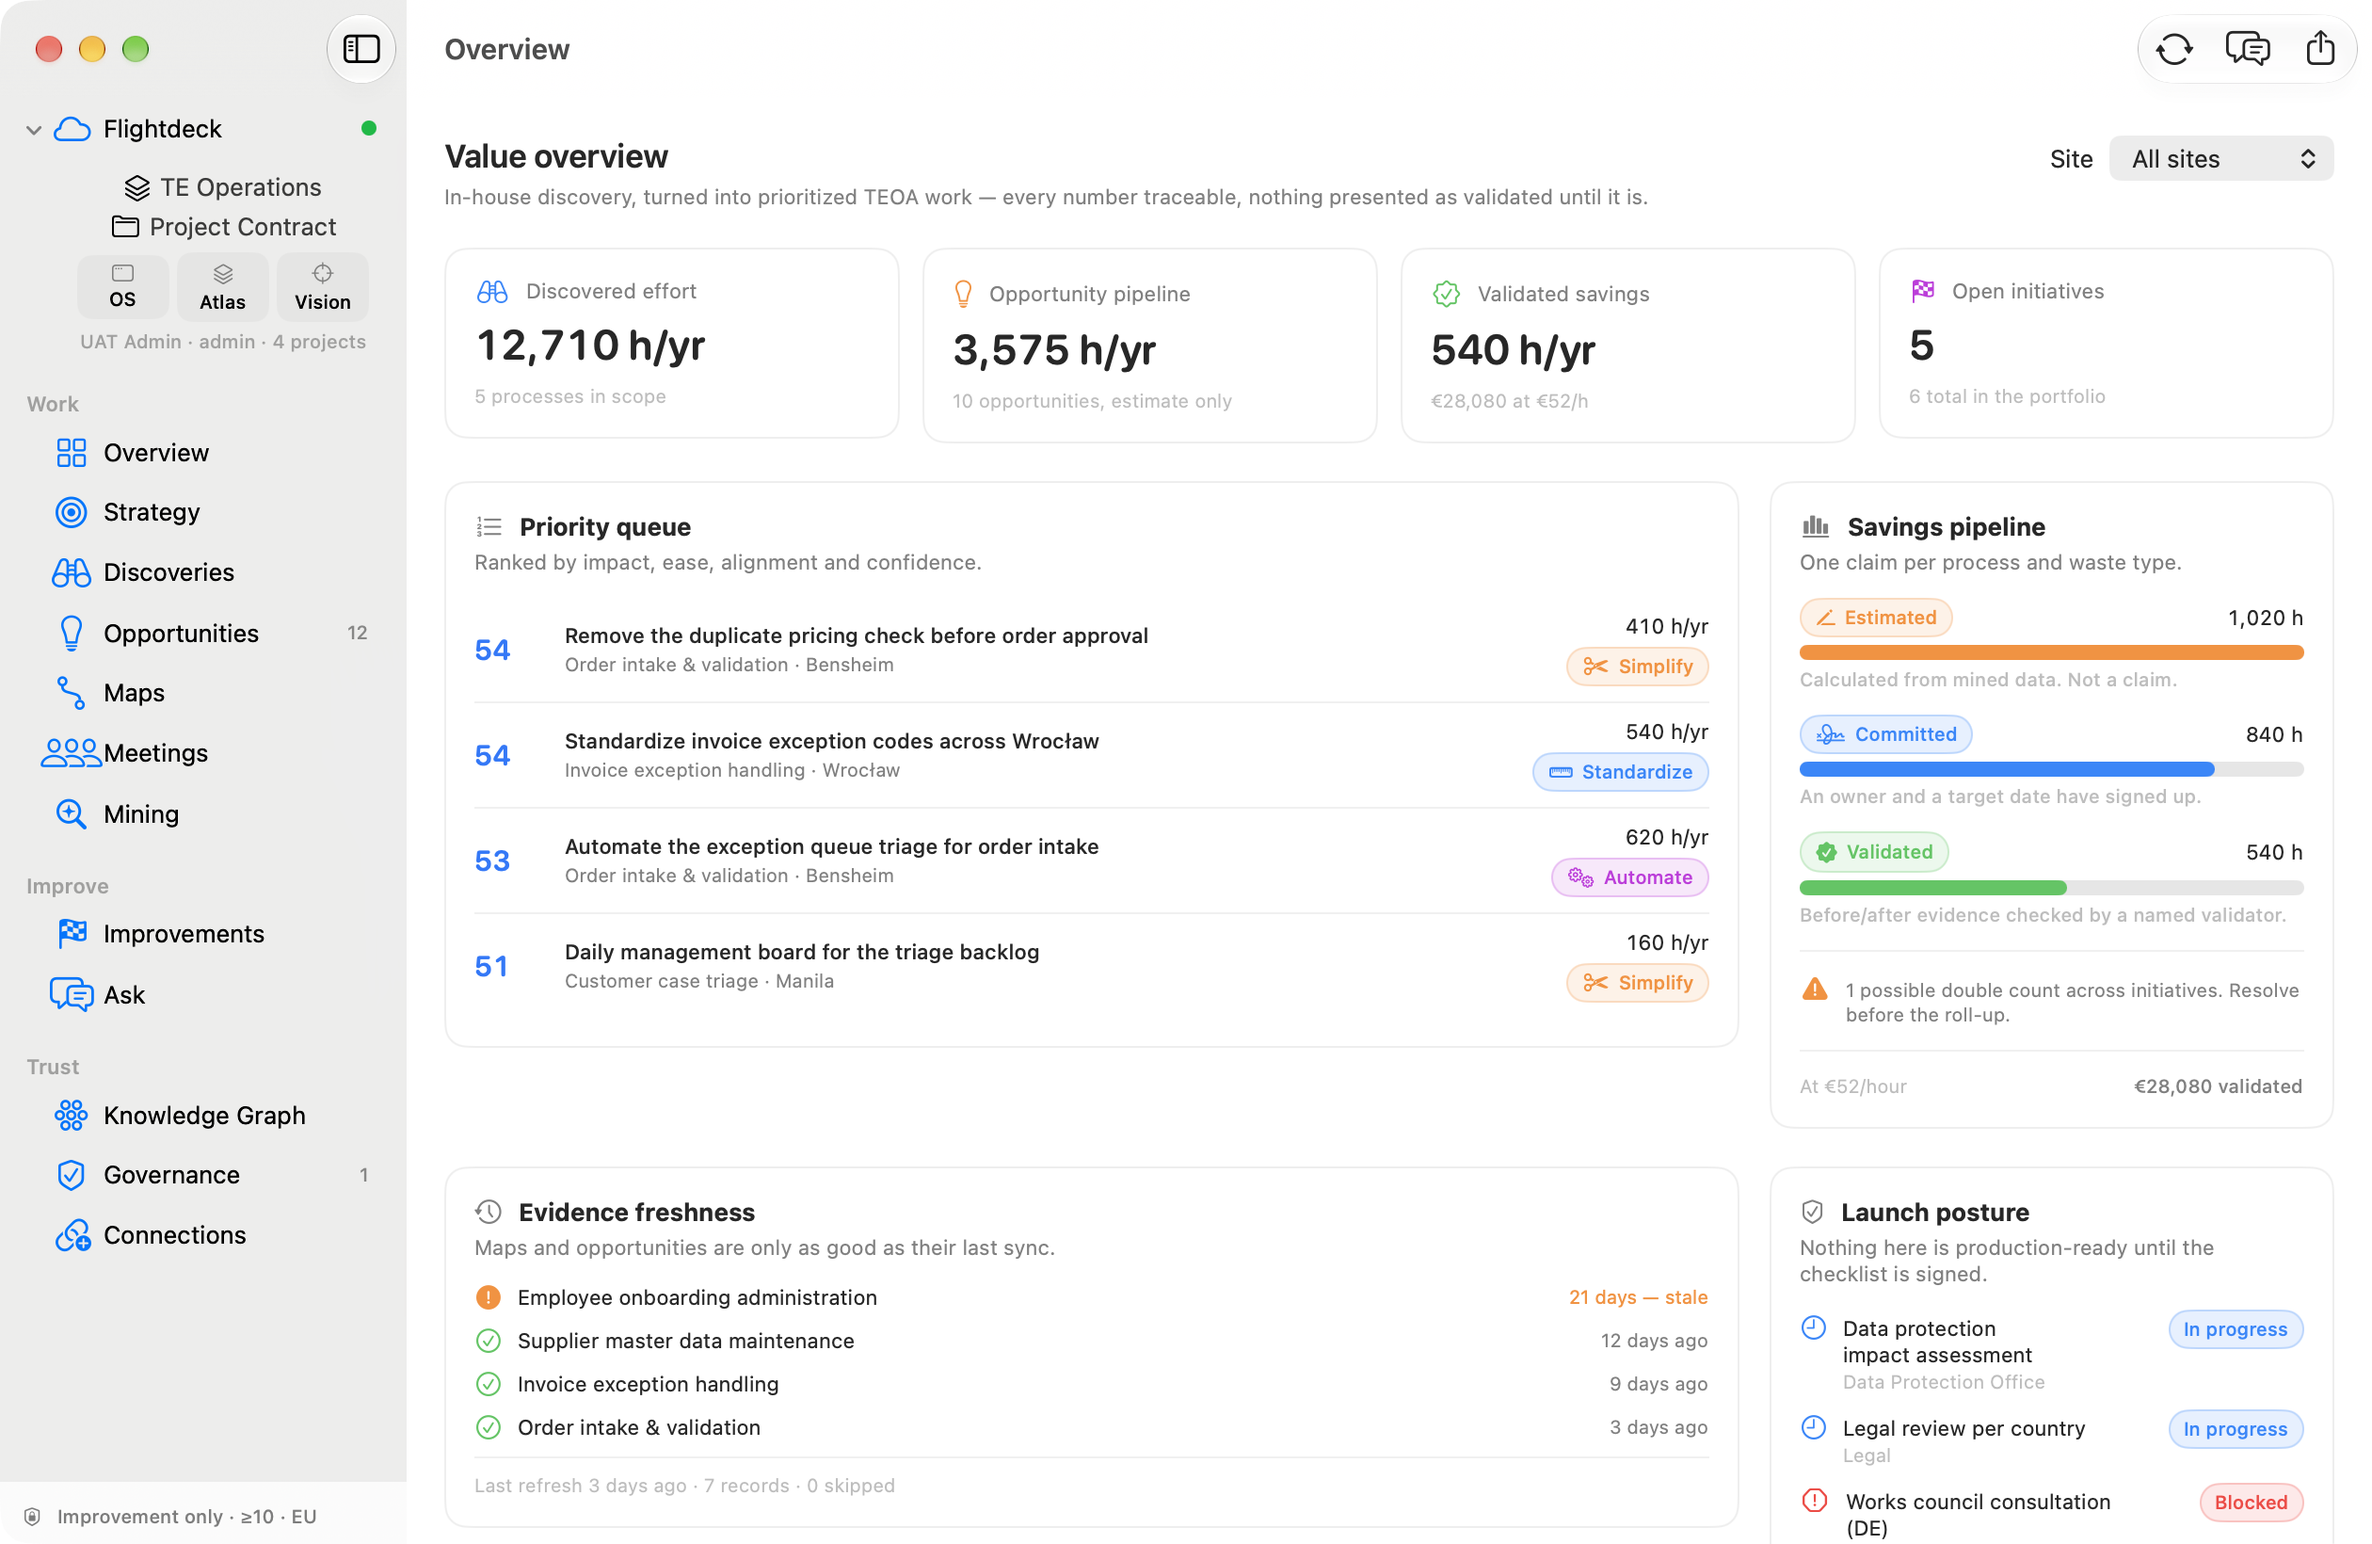
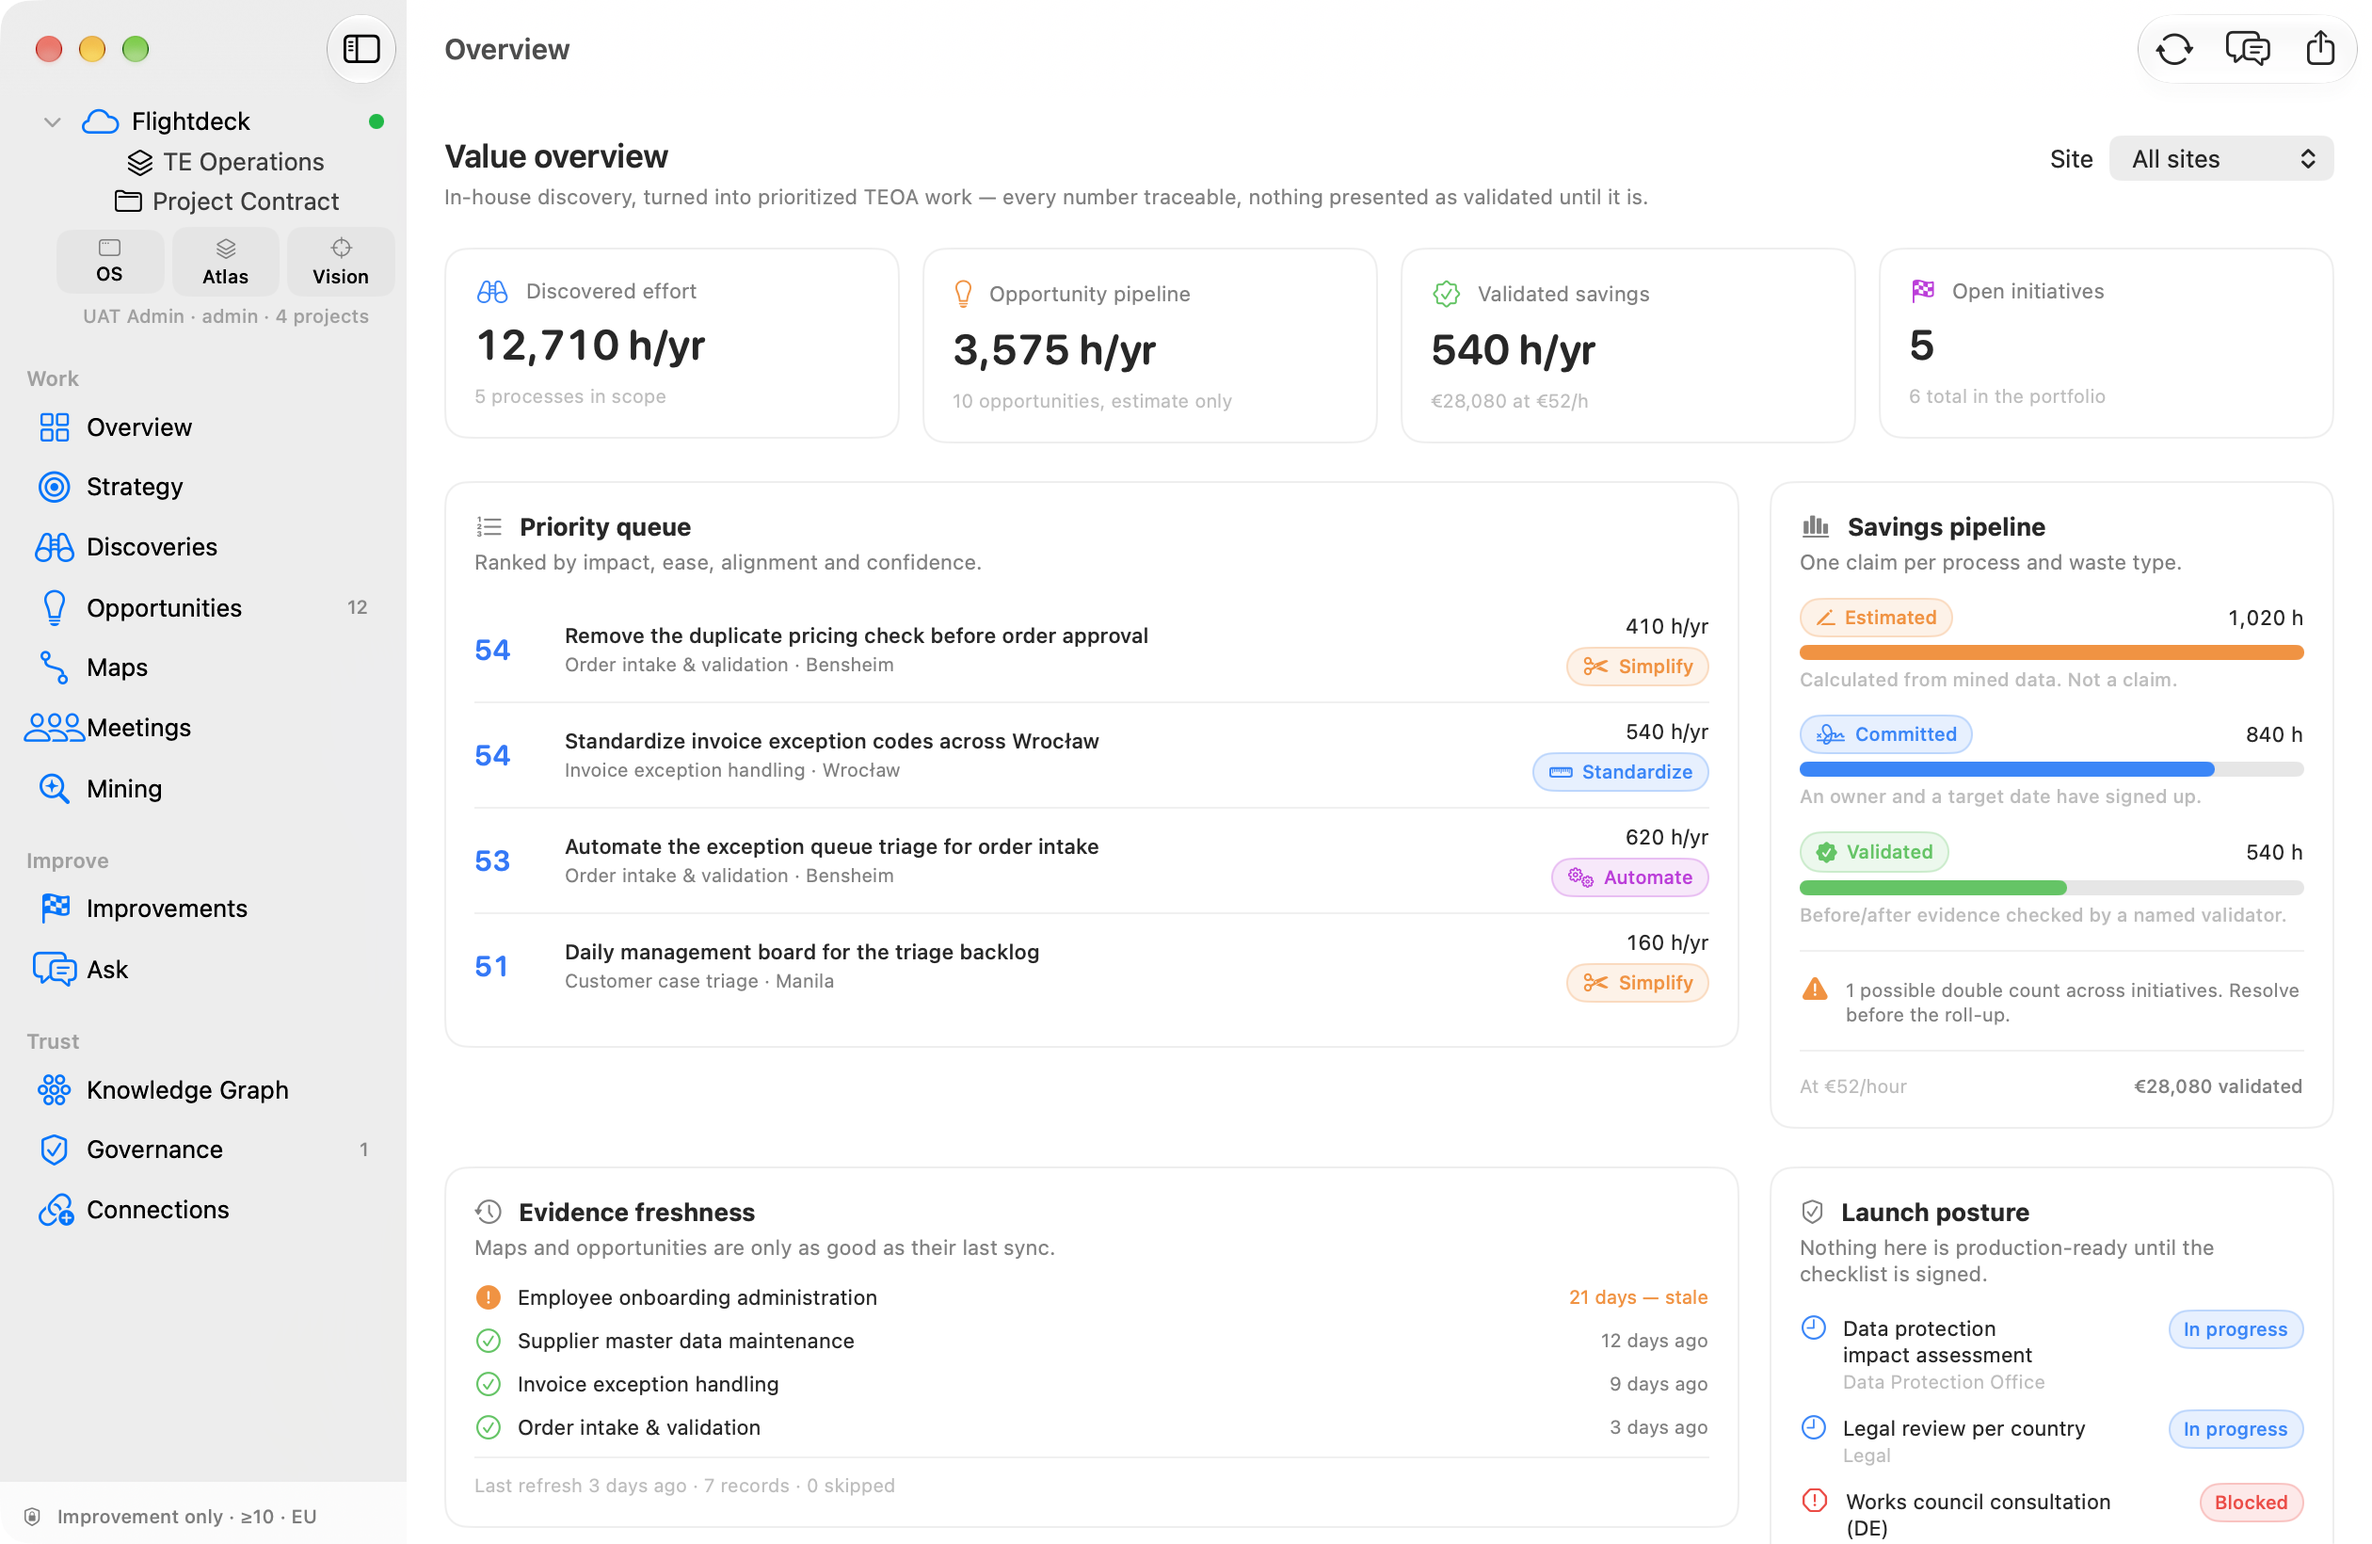
Centre the Flightdeck submenu within the sidebar row

Changed region(s): [[0.0, 0.2488, 0.1238, 0.653], [0.031, 0.0622, 0.1548, 0.2488], [0.0, 0.6841, 0.1238, 0.8085]]

diff --git a/macos/ProcessLink/Sources/ProcessLink/UI/FlightdeckSidebar.swift b/macos/ProcessLink/Sources/ProcessLink/UI/FlightdeckSidebar.swift
@@ -10,45 +10,59 @@ struct FlightdeckSidebar: View {
     @AppStorage("sidebar.flightdeck.expanded") private var expanded = true
 
     var body: some View {
-        DisclosureGroup(isExpanded: $expanded) {
-            VStack(spacing: Space.xs) {
-                if flightdeck.isSignedIn {
-                    workspaceMenu
-                    projectMenu
-                    links
-                    if let health = flightdeck.health["os"] {
-                        Text(health.detail)
-                            .font(.caption2)
-                            .foregroundStyle(.tertiary)
-                            .lineLimit(1)
-                            .multilineTextAlignment(.center)
-                            .frame(maxWidth: .infinity, alignment: .center)
-                            .help(health.detail)
-                    }
-                } else {
-                    Button {
-                        model.page = .connections
-                    } label: {
-                        Label("Connect Flightdeck", systemImage: "link.badge.plus")
-                            .font(.body)
-                            .frame(maxWidth: .infinity, alignment: .center)
-                    }
-                    .buttonStyle(.plain)
+        VStack(spacing: Space.xs) {
+            Button {
+                expanded.toggle()
+            } label: {
+                HStack(spacing: Space.sm) {
+                    Image(systemName: "chevron.right")
+                        .font(.system(size: 10, weight: .semibold))
+                        .foregroundStyle(.tertiary)
+                        .rotationEffect(.degrees(expanded ? 90 : 0))
+                    Label("Flightdeck", systemImage: "cloud")
+                        .font(.body.weight(.medium))
+                    Spacer()
+                    Circle()
+                        .fill(statusTint)
+                        .frame(width: 8, height: 8)
+                        .help(statusLabel)
                 }
+                .contentShape(Rectangle())
             }
-            .padding(.horizontal, Space.xs)
-            .padding(.top, 2)
-        } label: {
-            HStack(spacing: Space.sm) {
-                Label("Flightdeck", systemImage: "cloud")
-                    .font(.body.weight(.medium))
-                Spacer()
-                Circle()
-                    .fill(statusTint)
-                    .frame(width: 8, height: 8)
-                    .help(statusLabel)
+            .buttonStyle(.plain)
+
+            if expanded {
+                VStack(spacing: Space.xs) {
+                    if flightdeck.isSignedIn {
+                        workspaceMenu
+                        projectMenu
+                        links
+                        if let health = flightdeck.health["os"] {
+                            Text(health.detail)
+                                .font(.caption2)
+                                .foregroundStyle(.tertiary)
+                                .lineLimit(1)
+                                .multilineTextAlignment(.center)
+                                .frame(maxWidth: .infinity, alignment: .center)
+                                .help(health.detail)
+                        }
+                    } else {
+                        Button {
+                            model.page = .connections
+                        } label: {
+                            Label("Connect Flightdeck", systemImage: "link.badge.plus")
+                                .font(.body)
+                                .frame(maxWidth: .infinity, alignment: .center)
+                        }
+                        .buttonStyle(.plain)
+                    }
+                }
+                .frame(minWidth: 180, maxWidth: .infinity, alignment: .center)
+                .padding(.leading, Space.md)
             }
         }
+        .frame(minWidth: 180, maxWidth: .infinity, alignment: .center)
+        .padding(.horizontal, Space.sm)
         .task {
             // A self-test must never block on a Keychain prompt from an
             // unsigned/ad-hoc build. It tests the data functions, not the
@@ -129,7 +143,8 @@ struct FlightdeckSidebar: View {
     // MARK: Links
 
     private var links: some View {
-        HStack(spacing: Space.xs) {
+        LazyVGrid(columns: Array(repeating: GridItem(.flexible(), spacing: Space.xs), count: 3),
+                  spacing: Space.xs) {
             link("OS", title: "Flightdeck OS", symbol: "macwindow", url: flightdeck.baseURLString)
             link("Atlas", title: "Atlas", symbol: "square.stack.3d.up", url: flightdeck.atlasURLString)
             link("Vision", title: "Vision", symbol: "scope", url: visionURL)
@@ -162,6 +177,7 @@ struct FlightdeckSidebar: View {
             .contentShape(Rectangle())
         }
         .buttonStyle(.plain)
+        .frame(maxWidth: .infinity)
         .help("Open \(title)")
         .accessibilityLabel("Open \(title)")
     }

diff --git a/docs/RELEASING.md b/docs/RELEASING.md
@@ -11,7 +11,7 @@ A GitHub Release carries both desktop installers:
 
 The workflow is [`.github/workflows/release.yml`](../.github/workflows/release.yml).
 
-The current release, [v0.1.11](https://github.com/pallefar/ProcessLink/releases/tag/v0.1.11),
+The current release, [v0.1.12](https://github.com/pallefar/ProcessLink/releases/tag/v0.1.12),
 was published with the macOS DMG and a locally cross-built Windows NSIS
 installer because GitHub Actions is currently locked on the account with a
 billing error. The workflow is ready to add the MSI and a CI-built NSIS
@@ -23,8 +23,8 @@ installer once Actions is available.
 git remote add origin git@github.com:<owner>/<repo>.git   # once
 git push -u origin main
 
-git tag v0.1.11
-git push origin v0.1.11
+git tag v0.1.12
+git push origin v0.1.12
 ```
 
 The tag starts the workflow. It builds macOS and Windows in parallel, mounts
@@ -70,12 +70,12 @@ certificate to the Windows runner before calling the build signed.
 
 ```bash
 # macOS universal DMG (ad-hoc unless SIGN_IDENTITY is set)
-macos/ProcessLink/tools/package.sh --version 0.1.11
+macos/ProcessLink/tools/package.sh --version 0.1.12
 
 # macOS notarized
 SIGN_IDENTITY="Developer ID Application: …" \
 APPLE_ID=… APPLE_TEAM_ID=… APPLE_APP_SPECIFIC_PASSWORD=… \
-macos/ProcessLink/tools/package.sh --version 0.1.11 --notarize
+macos/ProcessLink/tools/package.sh --version 0.1.12 --notarize
 
 # Windows, on a Windows host
 npm ci --prefix web

diff --git a/README.md b/README.md
@@ -234,12 +234,12 @@ app and in [`docs/PHASE-0-DISCOVERY.md`](docs/PHASE-0-DISCOVERY.md).
 Tag a version and GitHub Actions builds both desktop installers:
 
 ```bash
-git tag v0.1.11 && git push origin v0.1.11
+git tag v0.1.12 && git push origin v0.1.12
 ```
 
 The release contains a universal macOS DMG (`arm64` + `x86_64`), a Windows
 NSIS setup (and an MSI from the Windows CI job), and `SHA256SUMS.txt`.
-[Download v0.1.11](https://github.com/pallefar/ProcessLink/releases/tag/v0.1.11).
+[Download v0.1.12](https://github.com/pallefar/ProcessLink/releases/tag/v0.1.12).
 Local packaging, signing and the current Actions billing note are in
 [`docs/RELEASING.md`](docs/RELEASING.md).
 
